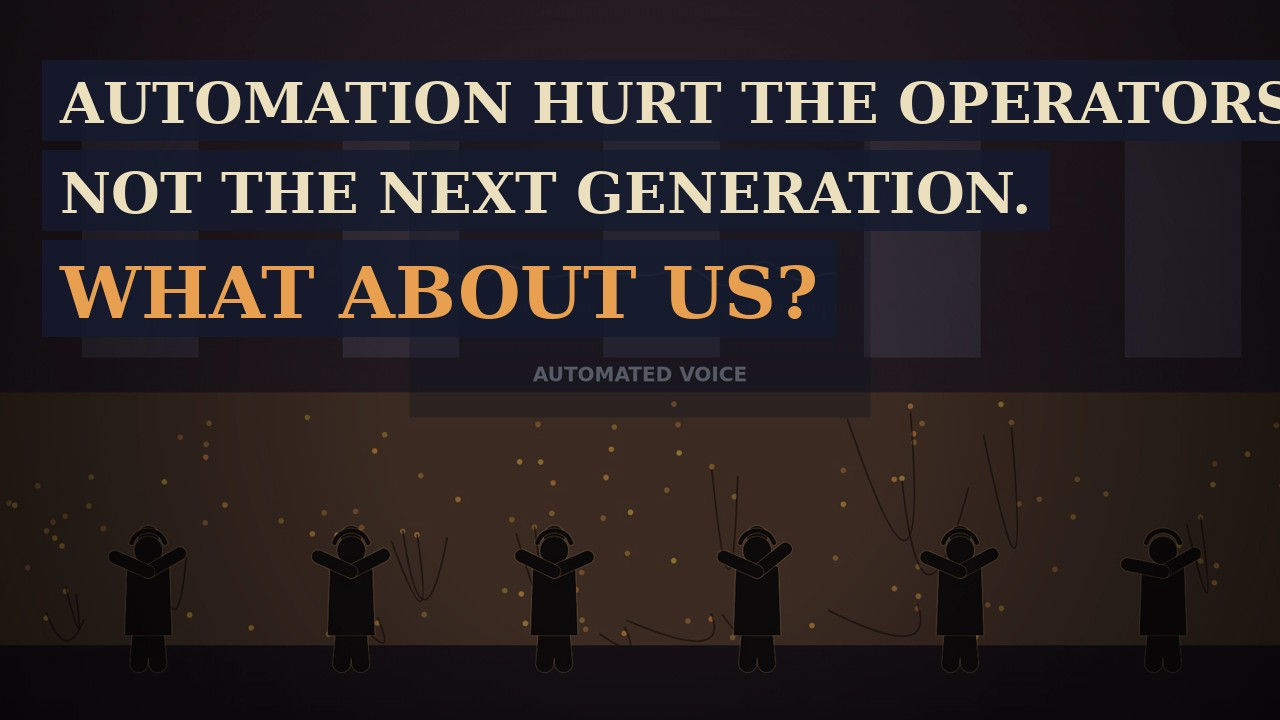
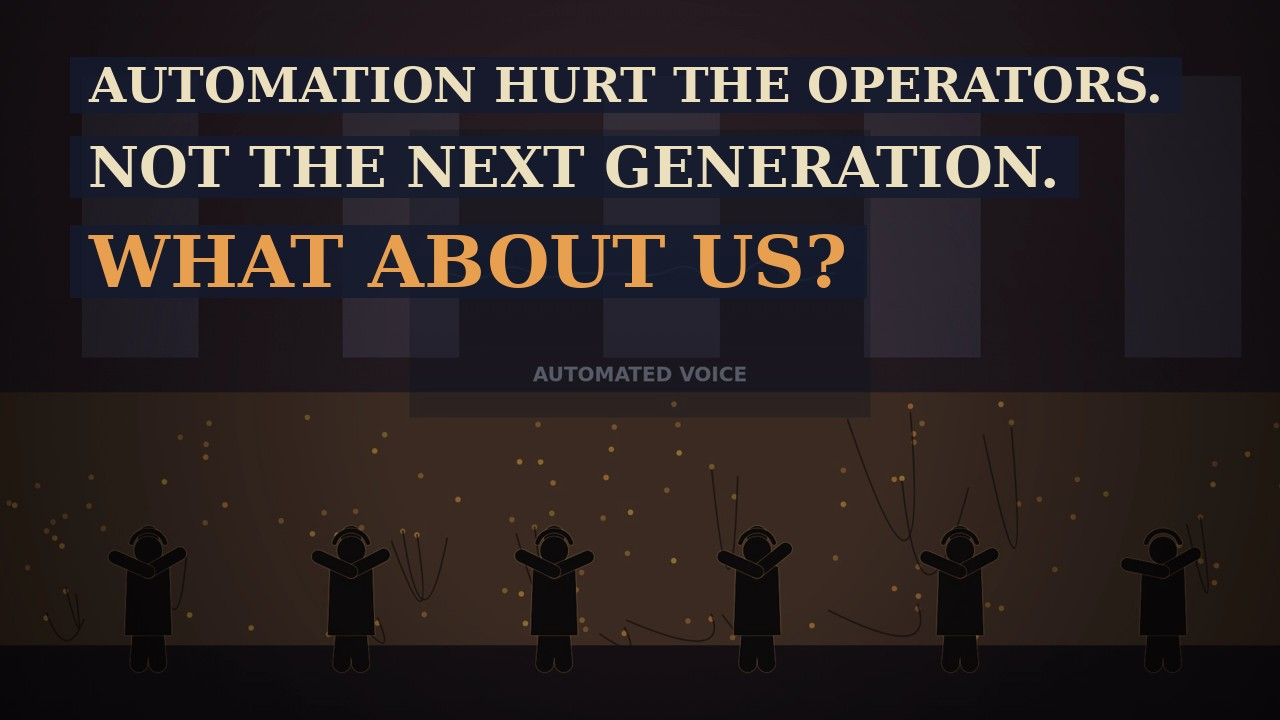
Tập 2 G2 duyệt → chuẩn bị G3: T1 sửa lề an toàn 5 % (thumb.py), qc Q12 thumbnail, bignum khoảng số không đếm, nhánh release-ll-ep02-v1 kiểm 11/11 SHA, hướng dẫn đăng, Altered content = No, xoá trung gian — DỪNG ở G3
Claude-Session: https://claude.ai/code/session_011rAauesRX6QG3i5z961aLx

Changed region(s): [[0.0312, 0.0611, 1.0, 0.4583]]

diff --git a/scripts/ll/lib/charts.js b/scripts/ll/lib/charts.js
@@ -137,9 +137,11 @@ TPL.quote = (p) => ({ kind: 'card', content(g, t, w, h) {
 // ---- thẻ số lớn: p = { value, text, prefix, suffix, d, caption, kind, at, dur, icon, sub } ----
 TPL.bignum = (p) => ({ kind: 'card', content(g, t, w, h) {
   const ex = header(g, t, p, w); if (!p.kind) p.kind = (p.nums && p.nums[0] && p.nums[0].kind) || 'actual';   // loại số lấy từ số khai báo (sửa lỗi Short S2: −5,3 % dự báo) footer(g, t, p, w, h);
-  const at = p.at === undefined ? p.t0 + 0.6 : p.at, u = rv(t, at, p.dur || 1.6), v = p.value * eo(u);
+  // khoảng số (p.range, value là mảng, hoặc chữ dạng "50–80…"): KHÔNG đếm qua số trung gian, hiện thẳng chữ (G2 tập 2)
+  const isRange = p.range || Array.isArray(p.value) || /\d\s*[–-]\s*\d/.test(p.text || '');
+  const at = p.at === undefined ? p.t0 + 0.6 : p.at, u = isRange ? (rv(t, at, 0.5) > 0 ? 1 : 0) : rv(t, at, p.dur || 1.6), v = isRange ? 0 : p.value * eo(u);
   if (p.icon) icon(g, p.icon, w / 2, h * 0.36, 1.1 * K, rvH(t, p.t0 + 0.3, 0.6));
-  if (u > 0) text(g, u >= 1 && p.text ? p.text : (p.prefix || '') + (v < 0 ? M : '') + fmtN(Math.abs(v), p.d === undefined ? (Number.isInteger(p.value) ? 0 : 1) : p.d) + (p.suffix || ''), w / 2, h * (p.icon ? 0.62 : 0.55), 150 * K, p.kind === 'projection' ? '#22364f' : BROWN, { align: 'center', kind: 'serif' });
+  if (u > 0) text(g, (u >= 1 || isRange) && p.text ? p.text : (p.prefix || '') + (v < 0 ? M : '') + fmtN(Math.abs(v), p.d === undefined ? (Number.isInteger(p.value) ? 0 : 1) : p.d) + (p.suffix || ''), w / 2, h * (p.icon ? 0.62 : 0.55), 150 * K, p.kind === 'projection' ? '#22364f' : BROWN, { align: 'center', kind: 'serif', a: isRange ? rv(t, at, 0.5) : 1 });
   kindTag(g, p.kind, w / 2, h * (p.icon ? 0.62 : 0.55) + 60 * K, 24 * K, rv(t, at + 0.2, 0.5), 'center');
   if (p.caption) para(g, p.caption, w / 2, h * (p.icon ? 0.62 : 0.55) + 140 * K, w - 4 * PAD, 34 * K, INK, { align: 'center', a: rv(t, p.capAt || at + 0.6, 0.6) });
 } });

diff --git a/scripts/ll/thumb.py b/scripts/ll/thumb.py
@@ -1,0 +1,45 @@
+#!/opt/cine/bin/python
+"""Last Lamplighters · nhà máy — thumbnail 1280×720 có lề an toàn (G2 tập 2: "OPERATORS" bị cắt chữ S ở mép phải).
+
+make(img, lines, out, align='left'|'center', top=None)
+  img   : PIL.Image nền (tự co về 1280×720)
+  lines : [(chữ, cỡ px mong muốn, màu RGB, 'serif'|'sans')]
+  - Mỗi dòng (gồm cả nền chữ) phải nằm trong lề an toàn SAFE = 5 % mỗi cạnh; dòng quá rộng thì tự thu cỡ chữ cho vừa.
+  - Ghi <out>.boxes.json: hộp nền chữ từng dòng (toạ độ ảnh) → qc.py mục Q12 kiểm chữ không chạm/vượt lề an toàn.
+"""
+import json
+from PIL import Image, ImageDraw, ImageFont
+
+W, H, SAFE, PAD = 1280, 720, 0.05, 18
+FONTS = {'serif': '/usr/share/fonts/truetype/dejavu/DejaVuSerif-Bold.ttf', 'sans': '/usr/share/fonts/truetype/dejavu/DejaVuSans-Bold.ttf'}
+X0, X1, Y0, Y1 = W * SAFE, W * (1 - SAFE), H * SAFE, H * (1 - SAFE)
+
+
+def make(img, lines, out, align='left', top=None):
+    im = img.convert('RGB').resize((W, H)); d = ImageDraw.Draw(im, 'RGBA')
+    maxw = (X1 - X0) - 2 * PAD - 12  # bề rộng chữ tối đa trong lề (trừ nền chữ, 1 px đệm mỗi bên)
+    y, boxes = (top if top is not None else Y0 + PAD + 2), []
+    for s, px, col, kind in lines:
+        while px > 20:
+            F = ImageFont.truetype(FONTS[kind], px); l, t, r, b = d.textbbox((0, 0), s, font=F)
+            if r - l <= maxw: break
+            px -= 2
+        w = r - l; x = X0 + PAD + 6 - l if align == 'left' else (W - w) / 2 - l
+        box = [x + l - PAD, y + t - PAD / 2, x + r + PAD, y + b + PAD / 2]
+        d.rectangle(box, fill=(20, 26, 46, 215)); d.text((x, y), s, font=F, fill=col)
+        boxes.append(dict(s=s, px=px, box=[round(v, 1) for v in box])); y = box[3] + 22
+    im.save(out, quality=90)
+    json.dump(dict(size=[W, H], safe=SAFE, boxes=boxes), open(out + '.boxes.json', 'w'), indent=1, ensure_ascii=False)
+    return boxes
+
+
+def check(path):
+    """Trả danh sách lỗi: ảnh khác 1280×720, hoặc hộp chữ chạm/vượt lề an toàn 5 %."""
+    err = []; im = Image.open(path)
+    if im.size != (W, H): err.append(f'{path}: kích thước {im.size} ≠ 1280×720')
+    try: B = json.load(open(path + '.boxes.json'))['boxes']
+    except FileNotFoundError: return err + [f'{path}: thiếu .boxes.json (dựng bằng scripts/ll/thumb.py)']
+    for b in B:
+        x0, y0, x1, y1 = b['box']
+        if x0 <= X0 or y0 <= Y0 or x1 >= X1 or y1 >= Y1: err.append(f'“{b["s"]}” hộp {b["box"]} chạm/vượt lề an toàn ({X0:.0f}–{X1:.0f} × {Y0:.0f}–{Y1:.0f})')
+    return err

diff --git a/reports/m3/ep02/phat-hanh/make_thumb.py b/reports/m3/ep02/phat-hanh/make_thumb.py
@@ -1,21 +1,12 @@
 #!/opt/cine/bin/python
-"""Thumbnail tập 2 (1280×720) từ khung trung gian + chữ lớn. python make_thumb.py <out_dir> <thư mục ra>"""
-import subprocess, sys, os
-from PIL import Image, ImageDraw, ImageFont, ImageFilter
-O, D = sys.argv[1], sys.argv[2]; os.makedirs(D, exist_ok=True)
-SB, SR = '/usr/share/fonts/truetype/dejavu/DejaVuSerif-Bold.ttf', '/usr/share/fonts/truetype/dejavu/DejaVuSans-Bold.ttf'
-def frame(seg, t):
-    p = f'{D}/_f.png'; subprocess.run(['ffmpeg', '-v', 'error', '-y', '-ss', str(t), '-i', f'{O}/sec/{seg}.mkv', '-frames:v', '1', '-vf', 'scale=1280:720', p], check=True)
-    return Image.open(p).convert('RGB')
-def card(im, lines, pos='left'):
-    d = ImageDraw.Draw(im, 'RGBA'); y = 70
-    for s, px, col, f in lines:
-        F = ImageFont.truetype(f, px); w = d.textlength(s, font=F); x = 60 if pos == 'left' else (1280 - w) / 2
-        d.rectangle([x - 18, y - 10, x + w + 18, y + px + 14], fill=(20, 26, 46, 215)); d.text((x, y), s, font=F, fill=col); y += px + 34
-    return im
+"""Thumbnail tập 2 (1280×720) từ khung trung gian, dựng bằng scripts/ll/thumb.py (lề an toàn 5 %).
+python make_thumb.py <thư mục ra> <khung T1 .png> <khung T2 .png>   (khung lấy từ trung gian trước khi xoá: 00 @4,0 s; 11 @40,0 s)"""
+import sys
+sys.path.insert(0, __file__.rsplit('/reports/', 1)[0] + '/scripts/ll')
+from PIL import Image
+import thumb
+D, f1, f2 = sys.argv[1:4]
 CREAM, AMB = (236, 223, 190), (232, 160, 80)
-# T1: phòng tổng đài + câu hỏi
-im = frame('00', 4.0); card(im, [('AUTOMATION HURT THE OPERATORS.', 56, CREAM, SB), ('NOT THE NEXT GENERATION.', 56, CREAM, SB), ('WHAT ABOUT US?', 72, AMB, SB)]).save(f'{D}/ll-ep02-thumb-T1.jpg', quality=90)
-# T2: thẻ so sánh −16,1 % / −5,3 %
-im = frame('11', 40.0); card(im, [('THEN −16%  ·  NEXT −5%?', 66, CREAM, SB)], 'center').save(f'{D}/ll-ep02-thumb-T2.jpg', quality=90)
-os.remove(f'{D}/_f.png'); print('ok')
+thumb.make(Image.open(f1), [('AUTOMATION HURT THE OPERATORS.', 56, CREAM, 'serif'), ('NOT THE NEXT GENERATION.', 56, CREAM, 'serif'), ('WHAT ABOUT US?', 72, AMB, 'serif')], f'{D}/ll-ep02-thumb-T1.jpg')
+thumb.make(Image.open(f2), [('THEN −16%  ·  NEXT −5%?', 66, CREAM, 'serif')], f'{D}/ll-ep02-thumb-T2.jpg', align='center')
+print('ok')

diff --git a/scripts/ll/qc.py b/scripts/ll/qc.py
@@ -12,6 +12,7 @@ Mục kiểm (ngưỡng ở bảng R dưới đây):
   Q8 nguồn: đọc toàn văn, không Wikipedia/Wikimedia làm nguồn chính, số khớp lời (ll.py check)
   Q9 số khung trung gian = timeline; master = tổng khung
   Q10 bản xem: mỗi phần ≤ 90 MB; Short ≤ 60 s
+  Q12 thumbnail: 1280×720; mọi hộp chữ (gồm nền chữ) nằm trong lề an toàn 5 % mỗi cạnh, không chạm (scripts/ll/thumb.py ghi .boxes.json)
   Q11 bản dài: khung đồ hoạ trống (chưa có dữ liệu/chữ gắn lời) > 3 s khi lời đang nói = 0; Shorts: không quá 3 s liền không có nội dung mới (cảnh truyện toàn khung miễn)
 Mọi số trong ±5 % quanh ngưỡng được nêu tên ở cột "sát ngưỡng".
 """
@@ -144,6 +145,13 @@ for k, L in logs.items():
             if run > 72 and sp[f - run:f].any(): still.append(f'{k} {(f - run) / 24:.1f}s ({run / 24:.1f} s)')
             run = 0
 row('Q11', 'Khung trống > 3 s khi có lời (bản dài) · chữ đứng > 3 s (Shorts)', not still, len(still), 0, note='; '.join(still[:8]))
+
+# Q12 thumbnail: chữ không chạm/vượt lề an toàn 5 %
+import thumb  # noqa: E402
+TH = E.get('thumbs') or sorted(glob.glob(os.path.join(os.path.dirname(os.path.abspath(EP)), 'phat-hanh', '*thumb*.jpg')))
+for f in TH:
+    e = thumb.check(f if os.path.isabs(f) else os.path.join(REPO, f))
+    row('Q12', f'Thumbnail lề an toàn {os.path.basename(f)}', not e, len(e), '0 (lề 5 %)', note='; '.join(e[:3]))
 
 ok = all(r['kq'] == 'ĐẠT' for r in rows)
 md = [f"# QC {E['id']} ({V}) — {'ĐẠT' if ok else 'TRƯỢT'}", '', '| Mục | Kiểm | Kết quả | Giá trị | Ngưỡng | Sát ngưỡng (±5 %) | Ghi chú |', '|---|---|---|---|---|---|---|']

diff --git a/reports/m3/HUONG-DAN-DANG-TAP2.md b/reports/m3/HUONG-DAN-DANG-TAP2.md
@@ -1,0 +1,107 @@
+# Hướng dẫn đăng tập 2 lên YouTube Studio · Last Lamplighters
+
+P soạn ngày 05/10/2026, sau khi chủ dự án duyệt cổng G2. Cổng G3 (bấm phát hành) do chủ dự án làm.
+- Làm theo cách của tập 1 (`reports/m3/HUONG-DAN-DANG-TAP1.md`). Các bước giống hệt nhau chỉ ghi tóm tắt; mục nào khác tập 1 có ghi rõ.
+- Tên nút theo giao diện YouTube Studio tiếng Anh.
+
+## 0. Lấy tệp (nhánh `release-ll-ep02-v1`, Git LFS)
+- **Nơi lấy:** nhánh **`release-ll-ep02-v1`** của repo `HungQuach301/cine-lab` (public), commit `0334728`.
+  - Nhánh chỉ có gói tải lên, `SHA256SUMS.txt` và `.gitattributes`. Master và 3 Short đi qua Git LFS.
+  - **Kiểm sau khi đẩy (05/10/2026):** P tải ngược cả **11 tệp** từ các link công khai bên dưới (LFS qua `media.githubusercontent.com`) và chạy `sha256sum -c`: **cả 11 OK**.
+- Trang nhánh: https://github.com/HungQuach301/cine-lab/tree/release-ll-ep02-v1
+
+| Tệp | Dùng cho | Link | SHA-256 (đầy đủ trong `SHA256SUMS.txt`) |
+|---|---|---|---|
+| `ll-ep02-v1-master-1080p.mp4` | video chính (493,9 MB, LFS; 9:01,38) | [trang tệp](https://github.com/HungQuach301/cine-lab/blob/release-ll-ep02-v1/ll-ep02-v1-master-1080p.mp4) · [tải thẳng](https://github.com/HungQuach301/cine-lab/raw/release-ll-ep02-v1/ll-ep02-v1-master-1080p.mp4) | `8b3c0be618dd291e…` |
+| `ll-ep02-short-S1.mp4` | Short 1 (21,0 MB, LFS; 40,3 s) | [trang tệp](https://github.com/HungQuach301/cine-lab/blob/release-ll-ep02-v1/ll-ep02-short-S1.mp4) · [tải thẳng](https://github.com/HungQuach301/cine-lab/raw/release-ll-ep02-v1/ll-ep02-short-S1.mp4) | `d3521bbf8969f6f7…` |
+| `ll-ep02-short-S2.mp4` | Short 2 (18,3 MB, LFS; 30,7 s) | [trang tệp](https://github.com/HungQuach301/cine-lab/blob/release-ll-ep02-v1/ll-ep02-short-S2.mp4) · [tải thẳng](https://github.com/HungQuach301/cine-lab/raw/release-ll-ep02-v1/ll-ep02-short-S2.mp4) | `7e4400eb3607bcce…` |
+| `ll-ep02-short-S3.mp4` | Short 3 (13,3 MB, LFS; 27,9 s) | [trang tệp](https://github.com/HungQuach301/cine-lab/blob/release-ll-ep02-v1/ll-ep02-short-S3.mp4) · [tải thẳng](https://github.com/HungQuach301/cine-lab/raw/release-ll-ep02-v1/ll-ep02-short-S3.mp4) | `11d8b3282ef71f45…` |
+| `ll-ep02-thumb-T1.jpg` | thumbnail chính | [trang tệp](https://github.com/HungQuach301/cine-lab/blob/release-ll-ep02-v1/ll-ep02-thumb-T1.jpg) · [tải thẳng](https://github.com/HungQuach301/cine-lab/raw/release-ll-ep02-v1/ll-ep02-thumb-T1.jpg) | `ea01a8cf21a38b27…` |
+| `ll-ep02-thumb-T2.jpg` | thumbnail thử A/B | [trang tệp](https://github.com/HungQuach301/cine-lab/blob/release-ll-ep02-v1/ll-ep02-thumb-T2.jpg) · [tải thẳng](https://github.com/HungQuach301/cine-lab/raw/release-ll-ep02-v1/ll-ep02-thumb-T2.jpg) | `2e7b9e2c6fe83813…` |
+| `ll-ep02.en.srt` | phụ đề tiếng Anh (195 khối) | [trang tệp](https://github.com/HungQuach301/cine-lab/blob/release-ll-ep02-v1/ll-ep02.en.srt) · [tải thẳng](https://github.com/HungQuach301/cine-lab/raw/release-ll-ep02-v1/ll-ep02.en.srt) | `d8d9b016c8e12666…` |
+| `ll-ep02-youtube-description.txt` | tiêu đề và mô tả video chính | [trang tệp](https://github.com/HungQuach301/cine-lab/blob/release-ll-ep02-v1/ll-ep02-youtube-description.txt) · [tải thẳng](https://github.com/HungQuach301/cine-lab/raw/release-ll-ep02-v1/ll-ep02-youtube-description.txt) | `5c015750e61e4b92…` |
+| `ll-ep02-shorts-text.txt` | tiêu đề và mô tả 3 Short | [trang tệp](https://github.com/HungQuach301/cine-lab/blob/release-ll-ep02-v1/ll-ep02-shorts-text.txt) · [tải thẳng](https://github.com/HungQuach301/cine-lab/raw/release-ll-ep02-v1/ll-ep02-shorts-text.txt) | `ed071db7c9073e90…` |
+| `*.boxes.json` (2 tệp) | hộp chữ thumbnail cho qc Q12; **không tải lên YouTube** | trên nhánh | trong `SHA256SUMS.txt` |
+
+**Cách tải và kiểm:** như tập 1, mục 0.
+- Bấm "tải thẳng"; không dùng Code → Download ZIP (ZIP chỉ chứa tệp con trỏ LFS).
+- Hoặc dùng dòng lệnh: `git lfs install && git clone --branch release-ll-ep02-v1 --single-branch https://github.com/HungQuach301/cine-lab.git ll-ep02-v1`.
+- **Kiểm SHA:**
+  - macOS: `shasum -a 256 -c SHA256SUMS.txt`, mọi dòng phải `OK`.
[1 lines of base64/hex data omitted]
+- Lệch SHA thì tải lại; không đăng tệp lệch.
+- Repo public: ai có link cũng tải được gói trước ngày phát hành (đã chấp nhận ở tập 1). Mỗi lần tải master tốn ≈ 0,5 GB băng thông LFS. P không tự xoá nhánh.
+
+## 1. Tải video chính lên
+**Create → Upload videos**, chọn `ll-ep02-v1-master-1080p.mp4`. Điền mục 2 trong lúc tải. Đừng bấm Publish.
+
+## 2. Details
+1. **Title** (chủ dự án đặt ở G1, 76 ký tự, dưới giới hạn 100): `Automation Hurt the Phone Operators. Not the Next Generation. What About Us?`
+2. **Description:** chép toàn bộ phần sau dòng `DESCRIPTION` của `ll-ep02-youtube-description.txt`. Gồm:
+   - 16 chapter từ `0:00`, mốc lấy từ timeline thật;
+   - Sources (6 nguồn, không Wikipedia);
+   - câu "Projections are forecasts…";
+   - **ghi công nhạc Kevin MacLeod CC BY 4.0: bắt buộc, không sửa**;
+   - đoạn "How this film was made".
+3. **Thumbnail: Test & compare.** Phương án 1 là **T1** (`ll-ep02-thumb-T1.jpg`, bản chính), phương án 2 là **T2** (`ll-ep02-thumb-T2.jpg`).
+   - Cả hai đã sửa và kiểm lề an toàn ≥ 5 % mỗi cạnh (qc Q12 ĐẠT). Chữ "OPERATORS" không còn bị cắt.
+   - Nếu không có Test & compare: tải T1 trước, thêm A/B sau (như tập 1, mục 2.4).
+4. **Playlist:** "Last Lamplighters" (cùng playlist với tập 1).
+5. **Audience:** "No, it's not made for kids"; Age restriction: không giới hạn.
+6. **Show more:**
+   - Paid promotion: không.
+   - Altered content: mục 3.
+   - Automatic chapters: bật.
+   - **Tags (tuỳ chọn):** `telephone operators, switchboard, customer service, automation, AI and jobs, BLS projections, history of work, future of work, animation`
+   - Video language = English; caption certification "never aired on television in the U.S."
+   - License: Standard; embedding bật; Category **Education**; Comments On, giữ bình luận có thể không phù hợp để duyệt.
+
+## 3. Altered content: **No** (chủ dự án quyết 05/10/2026, AUTHORSHIP)
+- **Đối chiếu tập 2:**
+  - hoạt hình phong cách hoá 2.5D, không có cảnh quay thật;
+  - phố Ostler và người thắp đèn vô danh là hư cấu;
+  - người thật chỉ được nêu tên khi dẫn nguồn (các nhà kinh tế), không có hình hay giọng của họ;
+  - giọng kể là giọng thư viện ElevenLabs;
+  - nhạc của Kevin MacLeod.
+- Màn hình "AUTOMATED VOICE" trong cảnh truyện là hình cách điệu có dán nhãn, không phải giọng giả người thật.
+- Giữ đoạn "How this film was made". **Kiểm lại trang chính sách YouTube ngay trước khi bấm Publish.**
+
+## 4. Phụ đề
+- **Video elements → Add subtitles → Upload file → With timing**, chọn `ll-ep02.en.srt`.
+- Câu đầu "At dusk, the last lamp on the street still…" ở 0:10. Câu cuối "Some of them answer the phone." ở 8:50.
+- Tập này không có thoại nhân vật, chỉ lời dẫn.
+- **End screen (tuỳ chọn):** thẻ kết là 8,6 s cuối (8:52,8–9:01,4). Thêm "Subscribe" và video tập 1 ("Best for viewer" hoặc chọn thẳng tập 1). Đặt ở góc trên để không che chữ thẻ kết.
+
+## 5. Kiểm và lịch đăng
+- **Checks:** chờ kiểm bản quyền.
+  - Nhạc "Immersed" và "Reawakening" dùng giấy phép CC BY 4.0, có ghi công.
+  - Nếu có claim: không xoá nhạc; báo P và tranh chấp kèm câu ghi công.
+- **Visibility → Schedule.** Gợi ý giữ nhịp với tập 1: thứ Ba–Thứ Năm, 9:00–11:00 sáng giờ New York (ET).
+- **Đây là cổng G3: chỉ chủ dự án bấm.**
+- Sau khi YouTube xử lý bản HD, xem lại trên điện thoại: chapter, phụ đề, thumbnail.
+
+## 6. Ba Shorts
+- Cách tải như tập 1 (mục 6): tệp 9:16, dưới 60 s, YouTube tự xếp vào Shorts.
+- Title và mô tả chép từ `ll-ep02-shorts-text.txt`. Ghi công nhạc giữ nguyên.
+- Thay "Full film … on the channel" bằng link video chính.
+- **Related video:** chọn video chính. **Altered content:** No, như video chính.
+
+| Thời điểm (N = ngày video chính lên) | Short | Lý do |
+|---|---|---|
+| N, sau 2–3 giờ | **S2 "How many U.S. customer service jobs could disappear?"** | câu hỏi có nhu cầu tìm kiếm cao; số BLS có nhãn "a projection, not a count" trên hình |
+| N + 2 | **S1 "Automation hurt the operators — not the next generation"** | ý chính của phim, trùng tiêu đề |
+| N + 5 | **S3 "The night the switchboard went quiet"** | chuyện lịch sử, kéo dài vòng đời phim |
+
+- Không đăng Short trước video chính.
+
+## 7. Sau khi đăng (P theo dõi khi được giao)
+- **Ngày 2 và ngày 7:** ghi CTR (T1/T2), thời lượng xem trung bình, giữ chân 30 s đầu, lượt xem từ Shorts. So với tập 1.
+- **Kết quả Test & compare:** ghi bản thắng vào AUTHORSHIP.
+- Nếu BLS cập nhật số OOH hoặc Canaries ra bản mới trước ngày đăng: báo chủ dự án. Đính chính bằng bình luận ghim và mô tả; chỉ dựng lại nếu số sai nằm trên hình.
+
+## Trạng thái trước G3 (05/10/2026)
+1. **Bản cuối và Shorts:** chủ dự án duyệt nguyên trạng ở G2. Sai lệch đã chấp nhận ghi trong AUTHORSHIP.
+2. **Tệp:** nhánh `release-ll-ep02-v1` (Git LFS), tải ngược 11/11 SHA OK.
+3. **Thumbnail:** T1 chính, A/B T2; đã sửa lề.
+4. **Altered content: No.** Giữ "How this film was made".
+5. **Còn lại cho G3:** chủ dự án tải tệp, kiểm SHA, làm theo mục 1–6, bấm Schedule hoặc Publish.

diff --git a/reports/m3/ep02/qc-g3.md b/reports/m3/ep02/qc-g3.md
@@ -1,0 +1,28 @@
+# QC ll-ep02 (v1) — TRƯỢT
+
+| Mục | Kiểm | Kết quả | Giá trị | Ngưỡng | Sát ngưỡng (±5 %) | Ghi chú |
+|---|---|---|---|---|---|---|
+| Q1 | Judder (giữ 2–12 khung, framemd5) | **ĐẠT** | 0 | 0 |  | 19 tệp |
+| Q2 | Khung gần trùng giữa chuyển động (tol 0,1) | **ĐẠT** | 0 | 0 |  |  |
+| Q3 | Máy xuyên hình học (log máy + khung phẳng) | **ĐẠT** | 0 | 0 |  |  |
+| Q4 | Loudness/TP ll-ep02-v1-master.mp4 | **ĐẠT** | -14.0 LUFS / -1.6 dBTP | −14±1 / ≤ −1 |  |  |
+| Q4 | Loudness/TP ll-ep02-v1-p1.mp4 | **ĐẠT** | -14.2 LUFS / -1.4 dBTP | −14±2 / ≤ −1 |  | phần bản xem: đối chiếu (chuẩn đo trên master) |
+| Q4 | Loudness/TP ll-ep02-v1-p2.mp4 | **ĐẠT** | -14.0 LUFS / -1.4 dBTP | −14±2 / ≤ −1 |  | phần bản xem: đối chiếu (chuẩn đo trên master) |
+| Q4 | Loudness/TP ll-ep02-v1-p3.mp4 | **ĐẠT** | -13.9 LUFS / -1.5 dBTP | −14±2 / ≤ −1 |  | phần bản xem: đối chiếu (chuẩn đo trên master) |
+| Q4 | Loudness/TP ll-ep02-short-S1.mp4 | **ĐẠT** | -14.0 LUFS / -1.6 dBTP | −14±1 / ≤ −1 |  |  |
+| Q4 | Loudness/TP ll-ep02-short-S2.mp4 | **ĐẠT** | -14.0 LUFS / -1.6 dBTP | −14±1 / ≤ −1 |  |  |
+| Q4 | Loudness/TP ll-ep02-short-S3.mp4 | **ĐẠT** | -14.0 LUFS / -1.6 dBTP | −14±1 / ≤ −1 |  |  |
+| Q5 | Tương phản chữ thấp nhất | **ĐẠT** | 4.83 | 4.5 |  | 11 f612 “(2025–35)” |
+| Q6 | Cỡ chữ hoa tối thiểu (mọi khung mẫu) | **ĐẠT** | 30.7 px (S1 f444 “ACTUAL”) | 18 / 30 px | cỡ chữ: 30.7 (ngưỡng 30) | mẫu tự nâng cỡ: {'03': 7779, '04': 527, '05': 715, '06': 254, '08': 301, '09': 600, '10': 410, '10b': 566, '10c': 141, '11': 1644, 'S1': 209, 'S2': 602, 'S3': 387} |
+| Q7 | Nhãn ACTUAL/PROJECTION khi có số | **ĐẠT** | 0 | 0 |  |  |
+| Q8 | Nguồn (toàn văn, không Wikipedia) + số khớp lời | **ĐẠT** | 0 | 0 |  |  |
+| Q9 | Số khung khớp timeline | **ĐẠT** | master 12993/12993 | = timeline |  |  |
+| Q10 | Dung lượng ll-ep02-v1-p1.mp4 | **ĐẠT** | 70.4 MB | ≤ 90 MB |  |  |
+| Q10 | Dung lượng ll-ep02-v1-p2.mp4 | **ĐẠT** | 66.7 MB | ≤ 90 MB |  |  |
+| Q10 | Dung lượng ll-ep02-v1-p3.mp4 | **ĐẠT** | 61.4 MB | ≤ 90 MB |  |  |
+| Q10 | Thời lượng Short S1 | **ĐẠT** | 40.33 s | ≤ 60 s |  |  |
+| Q10 | Thời lượng Short S2 | **ĐẠT** | 30.67 s | ≤ 60 s |  |  |
+| Q10 | Thời lượng Short S3 | **ĐẠT** | 27.92 s | ≤ 60 s |  |  |
+| Q11 | Khung trống > 3 s khi có lời (bản dài) · chữ đứng > 3 s (Shorts) | **TRƯỢT** | 1 | 0 |  | S1 34.0s (3.0 s) |
+| Q12 | Thumbnail lề an toàn ll-ep02-thumb-T1.jpg | **ĐẠT** | 0 | 0 (lề 5 %) |  |  |
+| Q12 | Thumbnail lề an toàn ll-ep02-thumb-T2.jpg | **ĐẠT** | 0 | 0 (lề 5 %) |  |  |

diff --git a/PLAN.md b/PLAN.md
@@ -37,6 +37,7 @@ Video > 30 MB: đẩy lên nhánh git, không gửi qua giao diện.
     - **04/10/2026: B1–B3 XONG** (`reports/m3/MOC-B-NHA-MAY.md`; thư viện `scripts/ll/`, demo qc 18/18 ĐẠT; token B1–B3 ≈ 0,25 triệu / 0,55; gửi K mục 8). **B4: kịch bản v1 tập 2 "Hello, Central" — DỪNG ở G1** (`reports/m3/TAP2-G1.md`): chờ duyệt đề tài/kịch bản, chọn tiêu đề (đề xuất C), quyết thời lượng ≈ 5:50 (A giữ / B tra thêm nguồn).
     - **05/10/2026: G1 DUYỆT** (B: tra thêm nguồn TODAY; số BLS 2025–35; tiêu đề "Automation Hurt the Phone Operators. Not the Next Generation. What About Us?"; người thắp đèn vô danh). Sản xuất theo chính sách 3 cổng. **Ngân sách đĩa:** cần ≈ 3 GB (trung gian 9 phút × 160 MB/phút ≈ 1,5 + master 0,8 + bản xem 0,2 + âm thanh 0,3); trống (df) 21 GB ≥ 1,5 × mức cần.
     - **05/10/2026: TẬP 2 XONG → DỪNG ở G2** (`reports/m3/TAP2-G2.md`): 9:01, qc 24/25 ĐẠT (còn S1 chữ đứng 3,04 s, không sửa theo §8), −14,0 LUFS / −1,6 dBTP; bản xem `screening/ll-ep02-v1-p1/p2/p3.mp4` (70,4/66,7/61,4 MB); master + Shorts + thumbnail trên nhánh `release-ll-ep02-v1` (Git LFS, kiểm tải ngược). Token tập ≈ 0,40 / 1,2 triệu. Sonnet ↔ Opus: không chuyển (Sonnet trượt Q11). Chờ: duyệt bản cuối, Shorts, chọn thumbnail (đề xuất T1, A/B T2).
+    - **05/10/2026: G2 DUYỆT** (bản cuối nguyên trạng + S1–S3; T1 chính, A/B T2; sai lệch đã chấp nhận ghi AUTHORSHIP). T1 sửa lề an toàn 5 % (`scripts/ll/thumb.py`, qc Q12 ĐẠT); `bignum` khoảng số không đếm. Nhánh `release-ll-ep02-v1` @0334728: tải ngược **11/11 SHA OK**. Hướng dẫn `reports/m3/HUONG-DAN-DANG-TAP2.md`; Altered content = No. Đã xoá trung gian (3,6 → 0,52 GB). **DỪNG ở G3**: chủ dự án tải tệp và bấm phát hành.
 Hạn mức: chủ dự án chọn **giữ tốc độ**; vẫn ghi token từng gói.
 
 ## Việc cho Cổng 6 — theo quyết định "Cửa mặt Ida (đóng)" 29/09/2026 (chỉ ghi, chưa làm)

diff --git a/reports/m3/TAP2-G2.md b/reports/m3/TAP2-G2.md
@@ -131,3 +131,22 @@ Bốn lỗi qc bắt được trong lúc sản xuất, đều đã sửa trướ
    - T2: thẻ so sánh + "Then −16% · Next −5%?".
    - P đề xuất T1, thử A/B với T2.
 4. **Sau G2:** xoá trung gian, rồi tới G3 (bấm phát hành theo cách của tập 1).
+
+---
+
+## 10. Sau G2 — chuẩn bị G3 (05/10/2026)
+**Chủ dự án duyệt G2:** bản cuối 9:01,38 nguyên trạng và S1–S3; không render lại; T1 chính, A/B T2. Sai lệch đã chấp nhận ghi AUTHORSHIP: cột 2025 hiện ngắn; nhãn sát trục; S1 chữ đứng 3,04 s; thẻ 50–80 % đếm qua số trung gian.
+
+| Việc | Kết quả |
+|---|---|
+| Sửa T1 (cắt chữ S của "OPERATORS") | dựng lại bằng `scripts/ll/thumb.py`: tự thu cỡ (dòng 1 còn 48 px), mọi hộp chữ trong lề an toàn 5 %; T2 kiểm cùng lề |
+| qc Q12 thumbnail (mới) | **T1 ĐẠT, T2 ĐẠT** (`reports/m3/ep02/qc-g3.md`) |
+| `bignum` khoảng số | không đếm; hiện thẳng chữ (thử trên khung đoạn 06, phim không render lại) |
+| Nhánh `release-ll-ep02-v1` | commit `0334728`: thumbnail mới + `.boxes.json` + `SHA256SUMS.txt` mới |
+| Kiểm SHA sau khi đẩy | tải ngược **11/11 tệp** từ link công khai (LFS qua media.githubusercontent.com), `sha256sum -c`: **cả 11 OK** |
+| Hướng dẫn đăng | `reports/m3/HUONG-DAN-DANG-TAP2.md` (theo khung tập 1) |
+| Altered content | **No** (AUTHORSHIP 05/10/2026) |
+| Xoá trung gian | `/var/tmp/cine-out` 3,6 GB → 0,52 GB; chỉ giữ master và Shorts ngoài git để đối chiếu |
+| Token phần này | ≈ 25 nghìn (bộ đếm phiên P); tổng tập 2 ≈ 0,43 triệu / 1,2 triệu |
+
+**DỪNG ở G3.** Chờ chủ dự án tải gói từ nhánh `release-ll-ep02-v1`, kiểm SHA, làm theo hướng dẫn và bấm Schedule hoặc Publish.

diff --git a/checks-appeal.md b/checks-appeal.md
@@ -110,3 +110,8 @@ Nguồn: `reports/m3/YEU-CAU-K-NHAP.md`. Bảy mục:
 ### 8b. Bổ sung mục 8 (05/10/2026, khi dựng tập 2)
 - **Q11 bản dài đổi định nghĩa** cho đúng luật kênh §5.1 ("không khung đồ hoạ nào **đứng trống** quá 3 s khi lời dẫn đang nói", lỗi L1 tập 1): đếm khung chưa có dữ liệu hay chữ gắn lời (chỉ tựa/trục/nguồn/biểu tượng). Bản cũ "không có nội dung mới > 3 s" chặt hơn luật, báo cả lúc biểu đồ đã đủ số; nay chỉ áp cho **Shorts** (yêu cầu Mốc B). Đề nghị K xác nhận hai định nghĩa.
 - Q5 có thêm dữ kiện: góc tối của ánh rọi B3 làm chữ nhỏ ở mép giấy xuống 4,1–4,4:1; P giảm độ tối góc ≈ 17 % và đặt nhãn trục trên nền giấy.
+
+### 8c. Thêm Q12 — thumbnail trong lề an toàn (05/10/2026, theo G2 tập 2)
+- G2 tập 2: thumbnail T1 bị cắt chữ S của "OPERATORS" ở mép phải. Chủ dự án giao thêm mục qc.
+- **Q12:** ảnh 1280×720; mọi hộp chữ (gồm nền chữ) nằm trong lề an toàn 5 % mỗi cạnh (64 px ngang, 36 px dọc), không chạm. Hộp lấy từ `.boxes.json` do `scripts/ll/thumb.py` ghi; thiếu tệp này thì TRƯỢT.
+- Đề nghị K xét khoá cùng Q1–Q11.

diff --git a/scripts/ll/README.md b/scripts/ll/README.md
@@ -59,3 +59,8 @@ shorts:
 - `bignum` lấy loại số (ACTUAL/PROJECTION) từ `nums` khi không khai `kind`.
 - `build.sh` dừng hẳn nếu một đoạn render lỗi (không ghép trên trung gian cũ).
 - Bẫy mốc: `"@many"` khớp lần xuất hiện ĐẦU TIÊN của từ (kể cả "Many" ở câu trước); dùng `#2` hoặc từ khác.
+
+## Bổ sung sau G2 tập 2 (05/10/2026)
+- `bignum` với **khoảng số** (`range: true`, `value: [a, b]`, hoặc `text` dạng "50–80…"): không đếm qua số trung gian, hiện thẳng chữ (hoà vào 0,5 s).
+- `thumb.py`: thumbnail 1280×720 từ một khung nền + các dòng chữ; tự thu cỡ để mọi hộp chữ nằm trong **lề an toàn 5 %** mỗi cạnh; ghi `<ảnh>.boxes.json`. Ví dụ dùng: `reports/m3/ep02/phat-hanh/make_thumb.py`.
+- qc **Q12**: mọi thumbnail (`thumbs:` trong đặc tả, hoặc `phat-hanh/*thumb*.jpg` cạnh đặc tả) phải 1280×720 và không có hộp chữ chạm/vượt lề 5 %.
